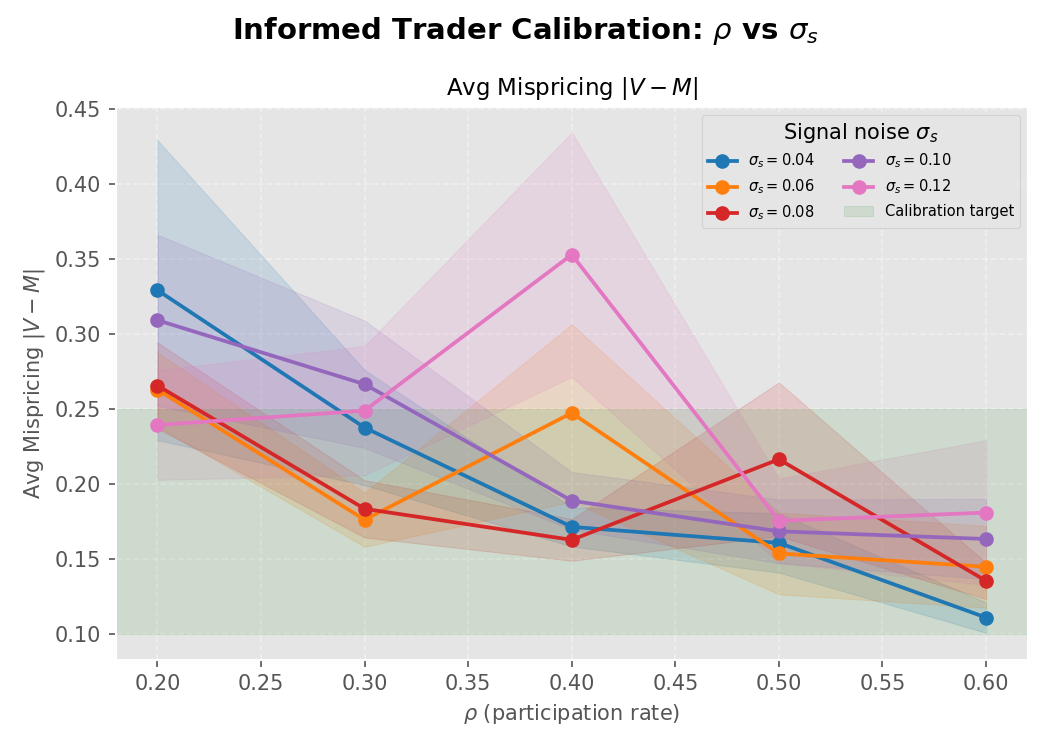
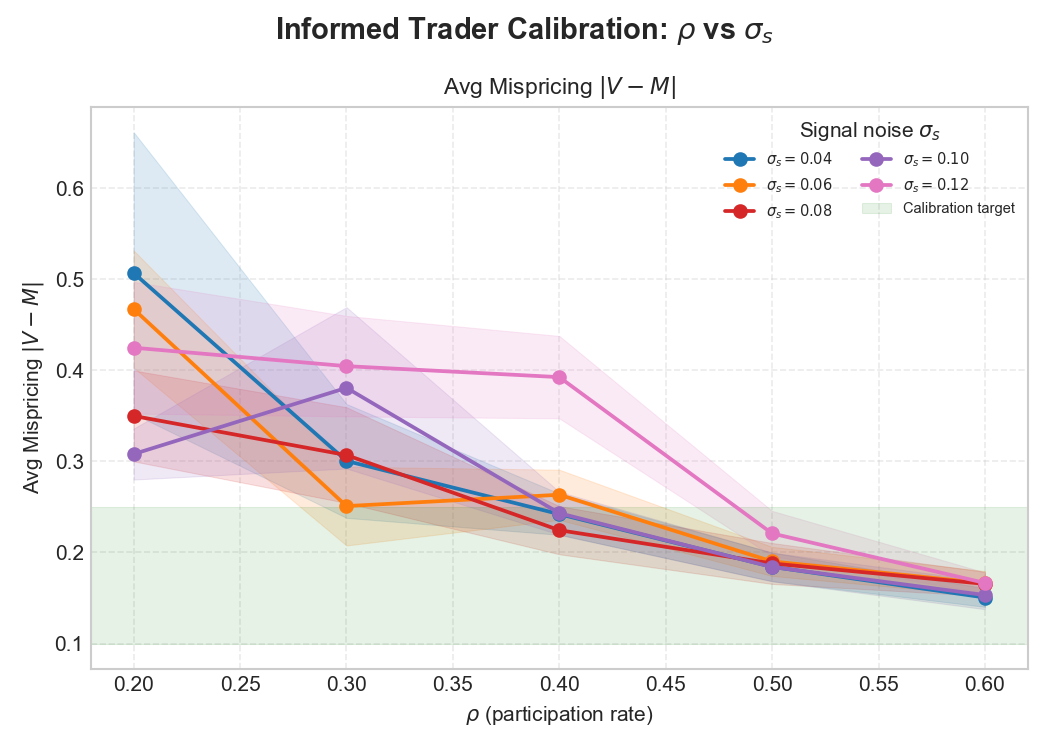
christi made me make it white

diff --git a/src/plot_calibration.py b/src/plot_calibration.py
@@ -28,8 +28,9 @@ from .calibration import (
     INFORMED_SIGMA_VALUES,
     MISPRICING_TARGET,
     run_informed_calibration_grid,
-
 )
+
+plt.style.use("seaborn-v0_8-whitegrid")
 
 
 # ---------------------------------------------------------------------------
@@ -37,7 +38,6 @@ from .calibration import (
 # ---------------------------------------------------------------------------
 
 def _pivot(df: pd.DataFrame, value_col: str) -> pd.DataFrame:
-    """Pivot summary df to (psi x rho_m) matrix for heatmap plotting."""
     return df.pivot(index="psi", columns="rho_m", values=value_col)
 
 
@@ -69,39 +69,23 @@ def _border_valid(ax, piv: pd.DataFrame, valid_mask: pd.DataFrame) -> None:
 
 
 # ---------------------------------------------------------------------------
-# Main plot
+# Noise trader calibration heatmap
 # ---------------------------------------------------------------------------
 
 def plot_calibration_grid(
     summary_df: pd.DataFrame,
     out_dir: str = ".",
 ) -> None:
-    """
-    2x2 heatmap grid:
-      - Mean Bid-Ask Spread
-      - Price Volatility
-      - Mean Visible Depth
-      - Avg Mispricing
-
-    Cells outside spread/volatility targets are hatched.
-    Cells within BOTH targets get a red border on all panels.
-    """
 
     os.makedirs(out_dir, exist_ok=True)
-
-    # sort so pivot is consistent
     summary_df = summary_df.sort_values(["psi", "rho_m"])
 
-    spread_piv = _pivot(summary_df, "mean_spread_mean")
-    vol_piv    = _pivot(summary_df, "volatility_mean")
-
+    spread_piv   = _pivot(summary_df, "mean_spread_mean")
     spread_valid = (spread_piv >= SPREAD_TARGET[0]) & (spread_piv <= SPREAD_TARGET[1])
-    vol_valid    = (vol_piv    >= VOLATILITY_TARGET[0]) & (vol_piv    <= VOLATILITY_TARGET[1])
-    both_valid   = spread_valid & vol_valid
 
     metrics = {
         "mean_spread_mean":    ("Mean Bid-Ask Spread",            "viridis_r", spread_valid),
-        "volatility_mean":     ("Price Volatility (Log-Ret Std)", "viridis_r", vol_valid),
+        "volatility_mean":     ("Price Volatility (Log-Ret Std)", "viridis_r", None),
         "mean_depth_mean":     ("Mean Visible Depth",             "viridis",   None),
         "avg_mispricing_mean": ("Avg Mispricing |V - M|",         "viridis_r", None),
     }
@@ -120,7 +104,6 @@ def plot_calibration_grid(
         )
         ax.grid(False)
 
-        # axis labels
         ax.set_xticks(range(len(piv.columns)))
         ax.set_xticklabels([f"{v:.1f}" for v in piv.columns], fontsize=9)
         ax.set_yticks(range(len(piv.index)))
@@ -129,7 +112,6 @@ def plot_calibration_grid(
         ax.set_ylabel(r"$\psi$ (sign persistence)", fontsize=11)
         ax.set_title(title, fontsize=12, fontweight="bold", pad=8)
 
-        # annotate each cell
         for i in range(len(piv.index)):
             for j in range(len(piv.columns)):
                 val = piv.values[i, j]
@@ -137,25 +119,20 @@ def plot_calibration_grid(
                 ax.text(j, i, fmt, ha="center", va="center",
                         color="white", fontsize=7.5, fontweight="bold")
 
-        # hatch out-of-target cells on spread and vol panels only
+        # hatch and border only on spread panel
         if col == "mean_spread_mean":
             _hatch_invalid(ax, piv, spread_valid)
-        elif col == "volatility_mean":
-            _hatch_invalid(ax, piv, vol_valid, exclude_mask=both_valid)
-
-        # red border = passes BOTH targets (on all panels)
-        _border_valid(ax, piv, both_valid)
+            _border_valid(ax, piv, spread_valid)
 
         plt.colorbar(im, ax=ax, shrink=0.82, pad=0.02)
 
-    # legend
     valid_patch = mpatches.Patch(
         edgecolor="red", facecolor="none",
-        linewidth=2.5, label="Within both targets (spread \& volatility)"
+        linewidth=2.5, label="Within spread target"
     )
     hatch_patch = mpatches.Patch(
         facecolor="none", hatch="////",
-        edgecolor="grey", label="Outside panel-specific target"
+        edgecolor="grey", label="Outside spread target"
     )
     fig.legend(
         handles=[valid_patch, hatch_patch],
@@ -164,12 +141,9 @@ def plot_calibration_grid(
         bbox_to_anchor=(0.5, 0.0),
     )
 
-    target_str = (
-        f"Spread target: [{SPREAD_TARGET[0]:.3f}, {SPREAD_TARGET[1]:.3f}]  |  "
-        f"Volatility target: [{VOLATILITY_TARGET[0]:.5f}, {VOLATILITY_TARGET[1]:.5f}]"
-    )
     fig.suptitle(
-        r"Calibration Grid Search: $\psi$ vs $\rho_m$" + f"\n{target_str}",
+        r"Calibration Grid Search: $\psi$ vs $\rho_m$"
+        f"\nSpread target: [{SPREAD_TARGET[0]:.3f}, {SPREAD_TARGET[1]:.3f}]",
         fontsize=13, y=1.01, fontweight="bold",
     )
 
@@ -180,14 +154,14 @@ def plot_calibration_grid(
     print(f"Heatmap saved to {out_path}")
 
 
+# ---------------------------------------------------------------------------
+# Noise trader calibration lineplots
+# ---------------------------------------------------------------------------
+
 def plot_calibration_lineplots(
     summary_df: pd.DataFrame,
     out_dir: str = ".",
 ) -> None:
-    """
-    Line plots matching the style of plot_sensitivity() in analysis.py:
-    x-axis = rho_m, lines coloured by psi, one panel per metric.
-    """
 
     os.makedirs(out_dir, exist_ok=True)
     import matplotlib.cm as cm
@@ -195,17 +169,17 @@ def plot_calibration_lineplots(
     psi_values = sorted(summary_df["psi"].unique())
     colours    = cm.tab10(np.linspace(0, 0.6, len(psi_values)))
 
+    # spread only — volatility shown without target band
+    fig, axes = plt.subplots(1, 2, figsize=(14, 5))
 
     metrics = {
         "mean_spread_mean": "Mean Bid-Ask Spread",
         "volatility_mean":  "Price Volatility (Log-Ret Std)",
     }
 
-    fig, axes = plt.subplots(1, 2, figsize=(14, 5))
-
-    for ax, (col, title) in zip(axes.flat, metrics.items()):
+    for ax, (col, title) in zip(axes, metrics.items()):
         for psi, colour in zip(psi_values, colours):
-            sub = summary_df[summary_df["psi"] == psi].sort_values("rho_m")
+            sub    = summary_df[summary_df["psi"] == psi].sort_values("rho_m")
             se_col = col.replace("_mean", "_se")
             ax.plot(
                 sub["rho_m"], sub[col],
@@ -220,12 +194,9 @@ def plot_calibration_lineplots(
                     alpha=0.15, color=colour,
                 )
 
-        # shade calibration target band on spread and vol panels
+        # only shade spread panel
         if col == "mean_spread_mean":
             ax.axhspan(*SPREAD_TARGET, alpha=0.10, color="green",
-                       label="Calibration target")
-        elif col == "volatility_mean":
-            ax.axhspan(*VOLATILITY_TARGET, alpha=0.10, color="green",
                        label="Calibration target")
 
         ax.set_xlabel(r"$\rho_m$ (market order probability)", fontsize=10)
@@ -244,6 +215,11 @@ def plot_calibration_lineplots(
     plt.close(fig)
     print(f"Line plots saved to {out_path}")
 
+
+# ---------------------------------------------------------------------------
+# Informed trader calibration heatmap + lineplot
+# ---------------------------------------------------------------------------
+
 def plot_informed_calibration(
     summary_df: pd.DataFrame,
     out_dir: str = ".",
@@ -254,23 +230,22 @@ def plot_informed_calibration(
 
     summary_df = summary_df.sort_values(["rho", "sigma_s"])
 
-    def _pivot(col):
+    def _pivot_inf(col):
         return summary_df.pivot(index="rho", columns="sigma_s", values=col)
 
-    mispricing_piv = _pivot("avg_mispricing_mean")
-    valid_mask     = (_pivot("mispricing_valid")).astype(bool)
+    valid_mask = (_pivot_inf("mispricing_valid")).astype(bool)
 
     metrics = {
-        "avg_mispricing_mean": ("Avg Mispricing |V - M|",      "viridis_r"),
-        "mean_spread_mean":    ("Mean Bid-Ask Spread",          "viridis_r"),
+        "avg_mispricing_mean": ("Avg Mispricing |V - M|",        "viridis_r"),
+        "mean_spread_mean":    ("Mean Bid-Ask Spread",            "viridis_r"),
         "volatility_mean":     ("Price Volatility (Log-Ret Std)", "viridis_r"),
-        "mean_depth_mean":     ("Mean Visible Depth",           "viridis"),
+        "mean_depth_mean":     ("Mean Visible Depth",             "viridis"),
     }
 
     fig, axes = plt.subplots(2, 2, figsize=(13, 10))
 
     for ax, (col, (title, cmap)) in zip(axes.flat, metrics.items()):
-        piv = _pivot(col)
+        piv = _pivot_inf(col)
 
         im = ax.imshow(
             piv.values,
@@ -296,7 +271,7 @@ def plot_informed_calibration(
                 ax.text(j, i, fmt, ha="center", va="center",
                         color="white", fontsize=7.5, fontweight="bold")
 
-        # red border on mispricing-valid cells
+        # red border on all panels, hatch only on mispricing panel
         for i in range(len(piv.index)):
             for j in range(len(piv.columns)):
                 if valid_mask.iloc[i, j]:
@@ -306,7 +281,6 @@ def plot_informed_calibration(
                         linewidth=2.5, zorder=5,
                     ))
 
-        # hatch invalid cells on mispricing panel only
         if col == "avg_mispricing_mean":
             for i in range(len(piv.index)):
                 for j in range(len(piv.columns)):
@@ -334,9 +308,9 @@ def plot_informed_calibration(
         bbox_to_anchor=(0.5, 0.0),
     )
 
-    target_str = f"Mispricing target: [{MISPRICING_TARGET[0]:.3f}, {MISPRICING_TARGET[1]:.3f}]"
     fig.suptitle(
-        r"Informed Trader Calibration: $\rho$ vs $\sigma_s$" + f"\n{target_str}",
+        r"Informed Trader Calibration: $\rho$ vs $\sigma_s$"
+        f"\nMispricing target: [{MISPRICING_TARGET[0]:.3f}, {MISPRICING_TARGET[1]:.3f}]",
         fontsize=13, y=1.01, fontweight="bold",
     )
 
@@ -346,8 +320,7 @@ def plot_informed_calibration(
     plt.close(fig)
     print(f"Informed calibration heatmap saved to {out_path}")
 
-
-        # --- line plots ---
+    # --- line plot ---
     fig, ax = plt.subplots(1, 1, figsize=(7, 5))
 
     sigma_values = sorted(summary_df["sigma_s"].unique())
@@ -386,6 +359,8 @@ def plot_informed_calibration(
     fig.savefig(out_path, dpi=150)
     plt.close(fig)
     print(f"Informed calibration line plots saved to {out_path}")
+
+
 # ---------------------------------------------------------------------------
 # Entrypoint
 # ---------------------------------------------------------------------------
@@ -397,7 +372,6 @@ if __name__ == "__main__":
     out_dir = os.path.join(os.path.dirname(__file__), "calibration_plots")
     os.makedirs(out_dir, exist_ok=True)
 
-    # run or load
     csv_path = os.path.join(out_dir, "calibration_summary.csv")
     if os.path.exists(csv_path):
         print(f"Loading existing results from {csv_path}")
@@ -418,7 +392,6 @@ if __name__ == "__main__":
 
     print("\nDone. Outputs in:", out_dir)
 
-    # informed trader calibration
     informed_csv = os.path.join(out_dir, "informed_calibration_summary.csv")
     if os.path.exists(informed_csv):
         print(f"Loading existing informed calibration from {informed_csv}")

diff --git a/src/calibration.py b/src/calibration.py
@@ -48,8 +48,8 @@ DarkPool = _dp_mod.DarkPool
 # spread should be a few ticks (tick=0.01), volatility should be low
 # ---------------------------------------------------------------------------
 
-SPREAD_TARGET     = (0.03, 0.07)    # a few ticks either side of baseline 0.046
-VOLATILITY_TARGET = (0.00030, 0.00075)   # log-return std, matches baseline 0.04%
+SPREAD_TARGET = (0.03, 0.05)   # centred on new baseline 0.029
+VOLATILITY_TARGET = (0.00010, 0.00030)  # centred on new baseline 0.00019
 
 PSI_VALUES   = [0.5, 0.6, 0.7, 0.8, 0.9]    # sign persistence
 RHO_M_VALUES = [0.2, 0.3, 0.4, 0.5, 0.6]    # market order probability
